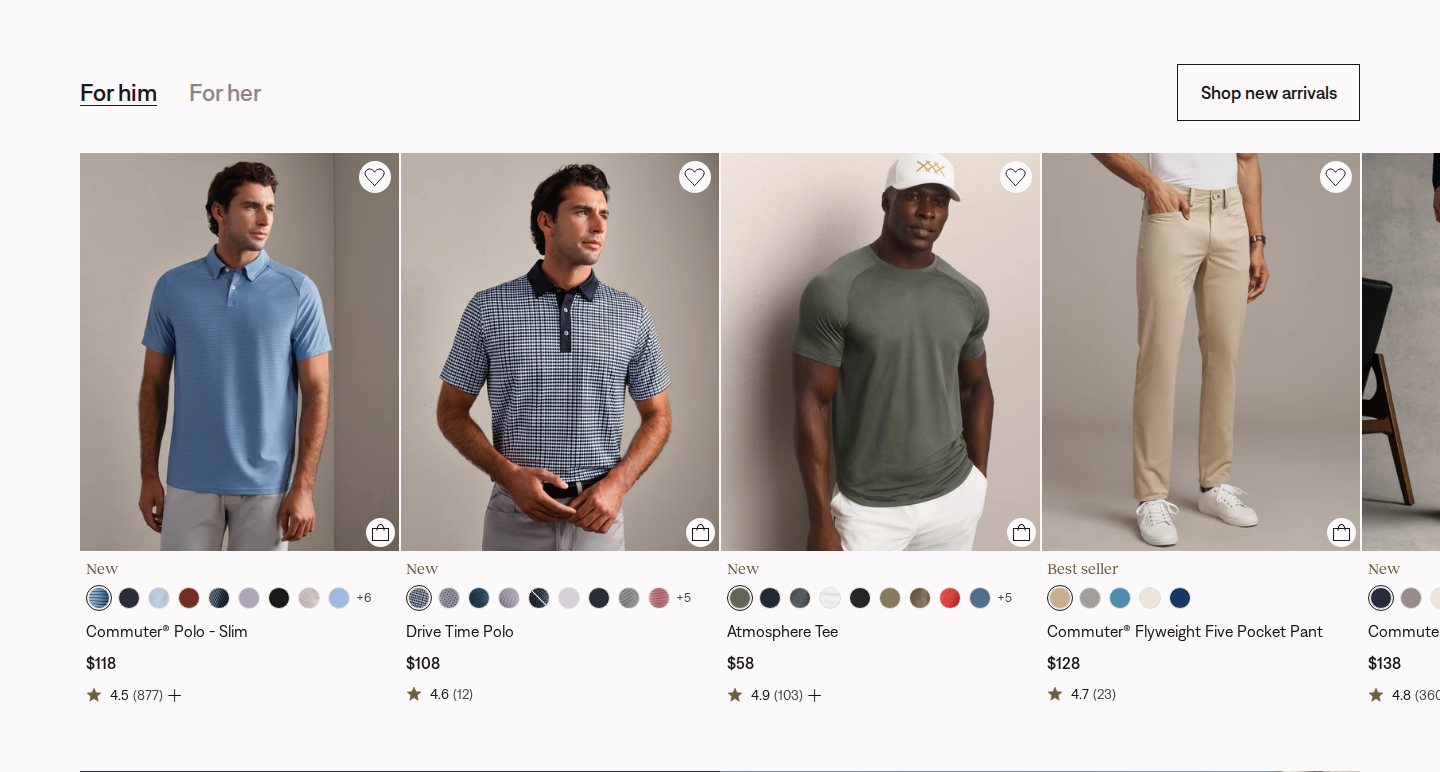
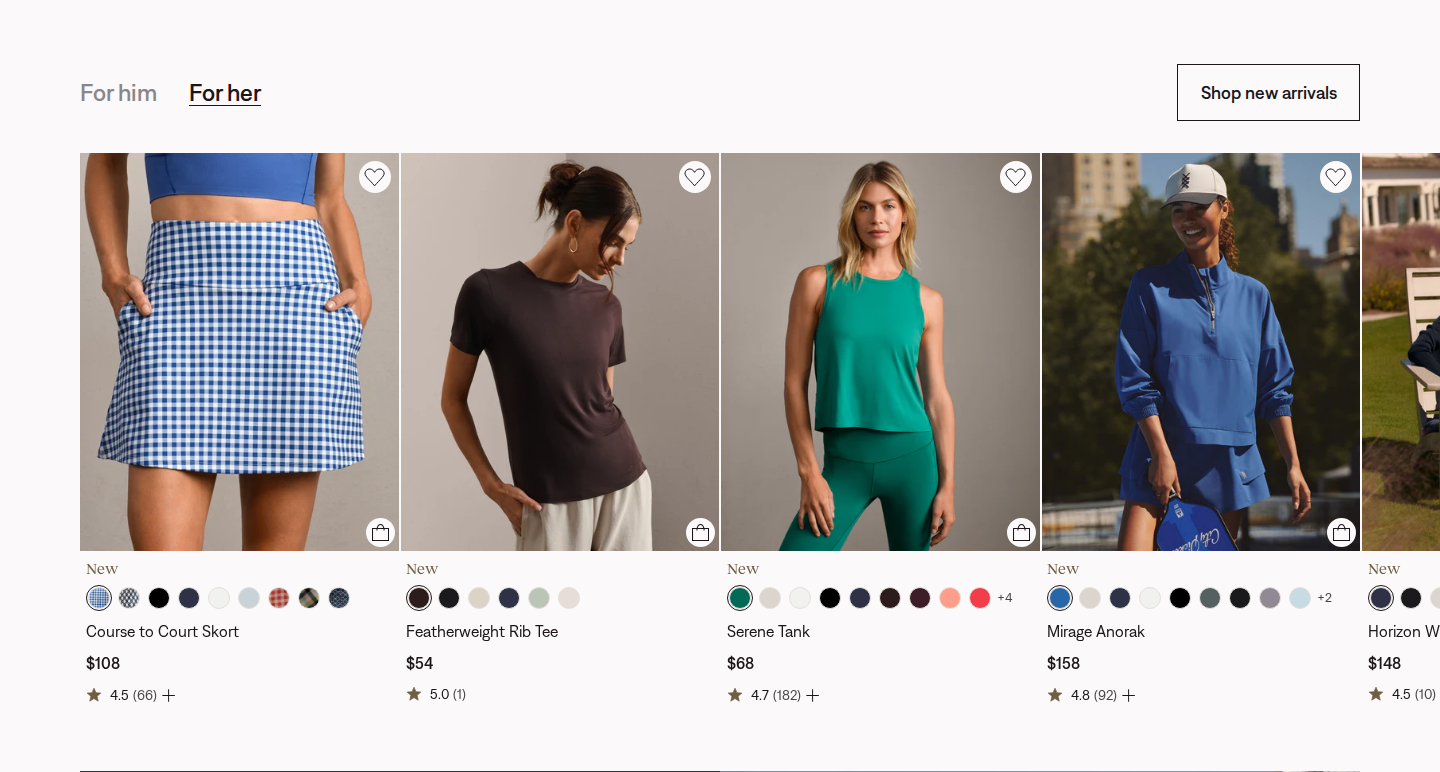
Rhone inventory (DTC-69 #49): interact recapture + findings
Menu (.nav-flyout 375/768), cart empty/filled/qty (Nacelle UI ATC),
For her tabs (768/1440), Vintage Indigo swatch (768/1440) verified
from PNGs. 375 DY/PDP hydrate leftovers. 28 obs, 104 PNGs, 0 schemas.
Validator clean.

diff --git a/todo/rhone.md b/todo/rhone.md
@@ -3,7 +3,7 @@
 *Kaynak:* https://www.rhone.com · *Preset:* `default`  
 *Tema (vitrinde görülen, uydurulmadı):* Theme Store / `Shopify.theme.name` / `schema_name` **yok**. `Shopify.theme` boş nesne. Shop `rhone.myshopify.com`. Vitrin **custom Nuxt** (`#__nuxt`, `/_nuxt/*.js`) + **Nacelle** + Shopify backend.
 
-**Durum:** Mod A walk + resmi 3vp + interact (devam)  
+**Durum:** Mod A walk + resmi 3vp + interact (kapanış)  
 **PR:** draft · **main'e merge yok**
 
 ---
@@ -18,7 +18,7 @@
 | Parallel | yalnız `observations/rhone/`, `evidence/rhone/`, `todo/rhone.md`, `candidates/rhone-*.md` |
 
 **Kapsam satırı:**  
-`Rhone · default · Nuxt+Nacelle · tema adı yok · home→PDP→PLP→search→cart→content→footer→mobile · 29 obs · PNG TBD · 0 yeni şema · leftover candidates/rhone-leftovers.md`
+`Rhone · default · Nuxt+Nacelle · tema adı yok · home→PDP→PLP→search→cart→content→footer→mobile · 28 obs · 104 PNG · 0 yeni şema · leftover candidates/rhone-leftovers.md`
 
 ---
 
@@ -26,55 +26,56 @@
 
 | Şablon | Durum | 3vp |
 |---|---|---|
-| Home + announcement/header/footer | ✅ obs | [ ] capture |
-| Hero video / mosaic / shop-your-day / DY tabs / sbs / Tolstoy / pre-footer | ✅ obs | [ ] |
-| Mega / search overlay / cart drawer / mobile menu | ✅ interact adımları | [ ] |
-| PDP `/products/mens-origin-tee-slim-fit/` | ✅ obs | [ ] |
-| PLP `/collections/mens-view-all/` | ✅ obs | [ ] |
-| Search `/search?q=tee` | ✅ obs | [ ] |
-| Cart `/cart/` + drawer | ✅ obs | [ ] |
-| About `/pages/about-us/` | ✅ 3 temsilci | [ ] |
-| Terms `/pages/terms-of-use/` | ✅ | [ ] |
-| Returns `/pages/returns/` | ✅ 1 temsilci | [ ] |
-| Store locator `/store-locator/` | ✅ heading | [ ] |
-| Mental Fitness `/pages/mental-fitness/` | ✅ 1 temsilci | [ ] |
+| Home + announcement/header/footer | ✅ obs | [x] |
+| Hero video / mosaic / shop-your-day / DY tabs / sbs / Tolstoy / pre-footer | ✅ obs | [x] |
+| Mega / search overlay / cart drawer / mobile menu | ✅ interact | [x] |
+| PDP `/products/mens-origin-tee-slim-fit/` | ✅ obs | [x] |
+| PLP `/collections/mens-view-all/` | ✅ obs | [x] |
+| Search `/search?q=tee` | ✅ obs | [x] |
+| Cart `/cart/` + drawer | ✅ obs | [x] |
+| About `/pages/about-us/` | ✅ 3 temsilci | [x] |
+| Terms `/pages/terms-of-use/` | ✅ | [x] |
+| Returns `/pages/returns/` | ✅ 1 temsilci | [x] |
+| Store locator `/store-locator/` | ✅ heading | [x] |
+| Mental Fitness `/pages/mental-fitness/` | ✅ 1 temsilci | [x] |
 | NYC / 12 Pursuits / New to Rhone | leftover | — |
 | FAQ / Resale / Contact / Blog / 404 | leftover | — |
 | Newsletter / login / return portal | ⛔ PII yok | — |
 
 ---
 
-## Bileşen roster (29)
+## Bileşen roster (28)
 
 | # | id | sayfa | Screenshot | Not | JSON | Done |
 |---|---|---|---|---|---|---|
-| 1 | promo-announcement-bar | home | [ ] | [x] | reuse | [ ] |
-| 2 | navigation-header-mega | home | [ ] | [x] | reuse | [ ] |
-| 3 | media-video-hero | home | [ ] | [x] | reuse | [ ] |
-| 4 | media-mosaic-grid | home | [ ] | [x] | reuse | [ ] |
-| 5 | collection-nav-image-cards | home | [ ] | [x] | reuse | [ ] |
-| 6 | product-showcase-tabs | home | [ ] | [x] | reuse | [ ] |
-| 7 | editorial-image-with-text | home | [ ] | [x] | reuse | [ ] |
-| 8 | media-shop-the-feed | home | [ ] | [x] | reuse | [ ] |
-| 9 | collection-nav-image-cards.2 | home | [ ] | [x] | reuse | [ ] |
-| 10 | footer-columns-newsletter | home | [ ] | [x] | reuse | [ ] |
-| 11 | global-cart-drawer | home | [ ] | [x] | reuse | [ ] |
-| 12 | global-predictive-search | home | [ ] | [x] | reuse | [ ] |
-| 13 | global-menu-drawer | home | [ ] | [x] | reuse | [ ] |
-| 14 | navigation-breadcrumbs | product-detail | [ ] | [x] | reuse | [ ] |
-| 15 | product-info-main | product-detail | [ ] | [x] | reuse | [ ] |
-| 16 | media-lookbook-slider | product-detail | [ ] | [x] | reuse | [ ] |
-| 17 | product-showcase-related | product-detail | [ ] | [x] | reuse | [ ] |
-| 18 | product-showcase-grid-plp | collection | [ ] | [x] | reuse | [ ] |
-| 19 | editorial-rich-text | collection | [ ] | [x] | reuse | [ ] |
-| 20 | product-showcase-related | collection | [ ] | [x] | reuse | [ ] |
-| 21 | search-results | search | [ ] | [x] | reuse | [ ] |
-| 22 | cart-page-main | cart | [ ] | [x] | reuse | [ ] |
-| 23–25 | about (3) | about-brand | [ ] | [x] | reuse | [ ] |
-| 26 | page-content-main | policy | [ ] | [x] | reuse | [ ] |
-| 27 | editorial-rich-text | returns | [ ] | [x] | reuse | [ ] |
-| 28 | page-content-main | store-locator | [ ] | [x] | reuse | [ ] |
-| 29 | collection-nav-image-cards | mental-fitness | [ ] | [x] | reuse | [ ] |
+| 1 | promo-announcement-bar | home | [x] | [x] | reuse | [x] |
+| 2 | navigation-header-mega | home | [x] | [x] | reuse | [x] |
+| 3 | media-video-hero | home | [x] | [x] | reuse | [x] |
+| 4 | media-mosaic-grid | home | [x] | [x] | reuse | [x] |
+| 5 | collection-nav-image-cards | home | [x] | [x] | reuse | [x] |
+| 6 | product-showcase-tabs | home | [x] | [x] | reuse | [x] |
+| 7 | editorial-image-with-text | home | [x] | [x] | reuse | [x] |
+| 8 | media-shop-the-feed | home | [x] | [x] | reuse | [x] |
+| 9 | collection-nav-image-cards.2 | home | [x] | [x] | reuse | [x] |
+| 10 | footer-columns-newsletter | home | [x] | [x] | reuse | [x] |
+| 11 | global-cart-drawer | home | [x] | [x] | reuse | [x] |
+| 12 | global-predictive-search | home | [x] | [x] | reuse | [x] |
+| 13 | global-menu-drawer | home | [x] | [x] | reuse | [x] |
+| 14 | navigation-breadcrumbs | product-detail | [x] | [x] | reuse | [x] |
+| 15 | product-info-main | product-detail | [x] | [x] | reuse | [x] |
+| 16 | media-lookbook-slider | product-detail | [x] | [x] | reuse | [x] |
+| 17 | product-showcase-related | product-detail | [x] | [x] | reuse | [x] |
+| 18 | product-showcase-grid-plp | collection | [x] | [x] | reuse | [x] |
+| 19 | editorial-rich-text | collection | [x] | [x] | reuse | [x] |
+| 20 | search-results | search | [x] | [x] | reuse | [x] |
+| 21 | cart-page-main | cart | [x] | [x] | reuse | [x] |
+| 22–24 | about (3) | about-brand | [x] | [x] | reuse | [x] |
+| 25 | page-content-main | policy | [x] | [x] | reuse | [x] |
+| 26 | editorial-rich-text | returns | [x] | [x] | reuse | [x] |
+| 27 | page-content-main | store-locator | [x] | [x] | reuse | [x] |
+| 28 | collection-nav-image-cards | mental-fitness | [x] | [x] | reuse | [x] |
+
+PLP DY `#dy-recommendations-656481` leftover (4vp tavan).
 
 ---
 
@@ -82,12 +83,12 @@
 
 | Bileşen | State | 3vp | Not |
 |---|---|---|---|
-| navigation-header-mega | initial, open | [ ] 1440 mega | 375/768 hamburger |
-| global-predictive-search | input | [ ] | Origin Tee |
-| global-cart-drawer | initial, filled, changed | [ ] | Origin Tee qty |
-| global-menu-drawer | open | [ ] 375/768 | 1440 N/A |
-| product-showcase-tabs | changed | [ ] | For her |
-| product-info-main | changed | [ ] | renk swatch |
+| navigation-header-mega | initial, open | [x] 1440 mega | 375/768 hamburger |
+| global-predictive-search | input | [x] 1440 | Origin Tee; 375/768 leftover |
+| global-cart-drawer | initial, filled, changed | [x] 3vp | UI ATC; qty 1→2 |
+| global-menu-drawer | open | [x] 375/768 | 1440 N/A |
+| product-showcase-tabs | changed | [x] 768/1440 | 375 iskelet |
+| product-info-main | changed | [x] 768/1440 | 375 aynı kare |
 
 ---
 
@@ -99,8 +100,8 @@
 
 ## Evidence backlog
 
-- [ ] Home static 3vp
-- [ ] Interact (mega/search/cart/menu/tabs/swatch)
-- [ ] PDP / PLP / search / cart 3vp
-- [ ] Content templates 3vp
-- [ ] Validator
+- [x] Home static 3vp
+- [x] Interact (mega/search/cart/menu/tabs/swatch)
+- [x] PDP / PLP / search / cart 3vp
+- [x] Content templates 3vp
+- [x] Validator

diff --git a/candidates/rhone-leftovers.md b/candidates/rhone-leftovers.md
@@ -92,6 +92,13 @@ Karar: onay bekliyor
 
 ---
 
+ADAY: rhone-search-mobile  
+Gerekçe: 375/768 masaüstü `.desktop-search-wrapper input` gizli. Mobil Search `.nav-flyout` satırında. 1440 Algolia overlay 3vp resmi (trending + Origin Tee). Mobil predictive 3vp yok.  
+Öneri: leftover  
+Karar: leftover
+
+---
+
 ADAY: rhone-plp-dy-related  
 Gerekçe: `#dy-recommendations-656481` “We think you'd like” yalnız derin scroll sonrası DOM’a giriyor. `capture-observation` 4vp tavanına sığmıyor (selector 1440 eşleşmedi). Aynı tip PDP’de 3vp var.  
 Öneri: leftover — recapture tavanı yetmedi, şema uydurulmadı  
@@ -120,9 +127,17 @@ Karar: onay bekliyor
 
 ---
 
+ADAY: rhone-375-hydrate  
+Gerekçe: Home DY tabs 375 iskelet + For her underline taşımadı (768/1440 değişti). PDP 375 swatch tık sonrası hâlâ White Onyx / Loading Price (768/1440 Vintage Indigo $54). Resmi kareler var; piksel değişmedi.  
+Öneri: leftover — ikinci deneme  
+Karar: leftover
+
+---
+
 ## Bilinçli atlananlar
 
 - `/account` / login / checkout  
 - Newsletter / return portal / promo code (PII)  
 - Email / SMS  
 - Wholesale `/pages/wholesale-greengrass/`  
+- Cart page promo code alanı (görüldü, doldurulmadı)  
